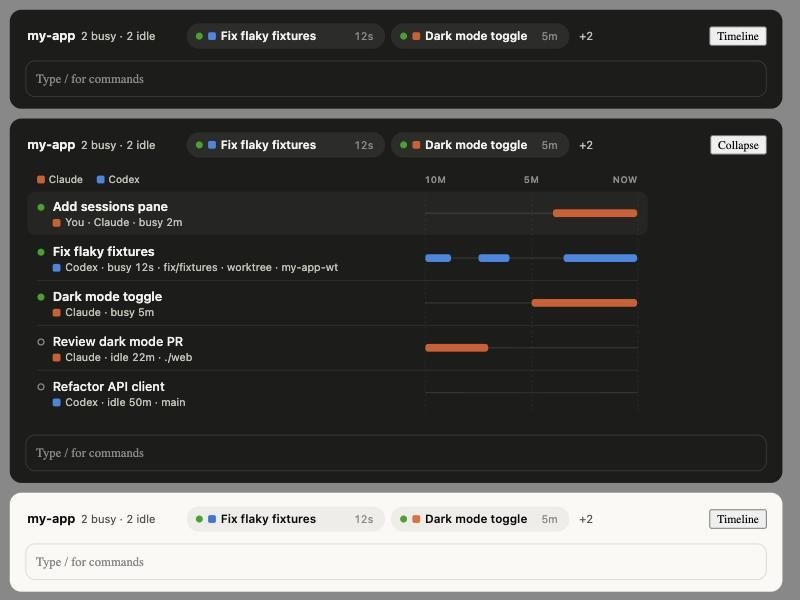
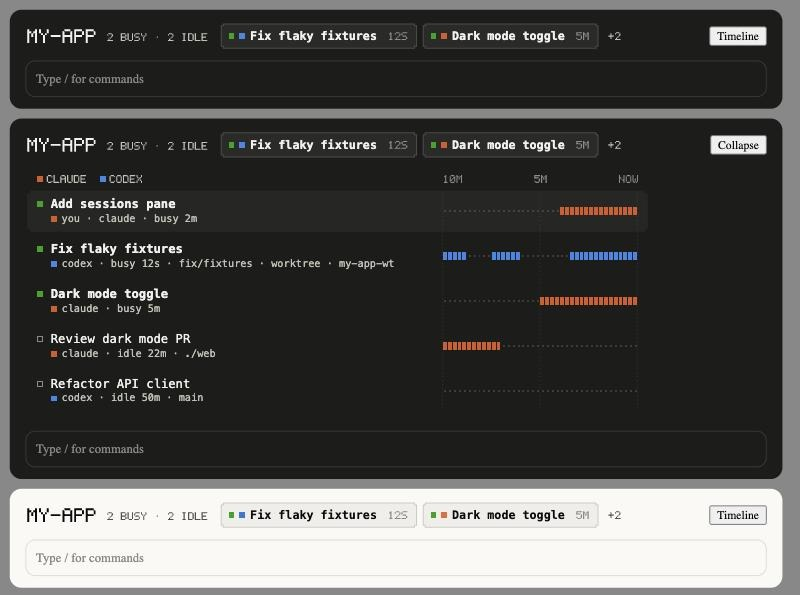
feat: pixel style and always-on collapsed strip
Labels use a 5x7 bitmap font, names a monospace face; status is a blinking
square, boxes have notched corners, and the timeline draws one block per
15 s with crisp edges. The strip now shows in every session, collapsed by
default, even with no other sessions in the repo.

Refs #1

diff --git a/hooks/draw.ts b/hooks/draw.ts
@@ -1,6 +1,8 @@
 import type { Peer, Snapshot } from '../types'
 
 // Pure drawing helpers: no `$`, so they can be rendered outside Claude Code.
+// Pixel style: labels in a 5x7 bitmap font, square marks, notched boxes,
+// one block per 15 s on the timeline, all drawn with crisp edges.
 
 export const HISTORY_BUCKETS = 40
 export const BUCKET_MS = 15_000
@@ -8,15 +10,6 @@ export const BUCKET_MS = 15_000
 const PAD = 12
 const ROW_H = 46
 const SUB_H = 26
-
-// Geometry for one drawing width: the shared time lane (last 10 minutes,
-// left to right) takes the right-hand part.
-type Geo = { W: number; LX: number; RX: number; CELL: number }
-const geo = (W: number): Geo => {
-  const RX = W - PAD
-  const LX = RX - Math.min(300, Math.round(W * 0.34))
-  return { W, LX, RX, CELL: (RX - LX) / HISTORY_BUCKETS }
-}
 
 // Agent identity: categorical slots 1 and 2, validated for both modes.
 const AGENT = {
@@ -27,28 +20,79 @@ const GOOD = '#0ca30c'
 
 const STYLE = `
   .t1 { fill: #0b0b0b; } .t2 { fill: #52514e; } .t3 { fill: #8a8880; }
-  .hair { stroke: #0b0b0b; stroke-opacity: .09; } .grid { stroke: #0b0b0b; stroke-opacity: .07; }
-  .track { stroke: #0b0b0b; stroke-opacity: .12; } .ring { stroke: #8a8880; }
-  .self { fill: #0b0b0b; fill-opacity: .035; } .chip { fill: #0b0b0b; fill-opacity: .05; }
+  .edge { stroke: #0b0b0b; stroke-opacity: .16; fill: none; } .grid { stroke: #0b0b0b; stroke-opacity: .12; }
+  .off { fill: #0b0b0b; fill-opacity: .13; } .ring { stroke: #8a8880; fill: none; }
+  .self, .chip { fill: #0b0b0b; } .self { fill-opacity: .04; } .chip { fill-opacity: .045; }
   .claude { fill: ${AGENT.claude.light}; } .codex { fill: ${AGENT.codex.light}; }
   @media (prefers-color-scheme: dark) {
     .t1 { fill: #f2f1ec; } .t2 { fill: #c3c2b7; } .t3 { fill: #8f8d85; }
-    .hair, .grid, .track { stroke: #ffffff; } .hair { stroke-opacity: .08; } .grid { stroke-opacity: .06; }
-    .track { stroke-opacity: .14; } .ring { stroke: #8f8d85; }
-    .self, .chip { fill: #ffffff; } .self { fill-opacity: .04; } .chip { fill-opacity: .07; }
+    .edge, .grid { stroke: #ffffff; } .edge { stroke-opacity: .16; } .grid { stroke-opacity: .1; }
+    .off { fill: #ffffff; fill-opacity: .14; } .ring { stroke: #8f8d85; }
+    .self, .chip { fill: #ffffff; } .self { fill-opacity: .045; } .chip { fill-opacity: .06; }
     .claude { fill: ${AGENT.claude.dark}; } .codex { fill: ${AGENT.codex.dark}; }
   }
-  text { font-family: -apple-system, BlinkMacSystemFont, "SF Pro Text", "Inter", system-ui, sans-serif; }
-  .caps { font-size: 9.5px; font-weight: 600; letter-spacing: .06em; }
-  .num { font-variant-numeric: tabular-nums; }
+  text { font-family: "SF Mono", ui-monospace, Menlo, Monaco, monospace; }
 `
+
+// 5x7 bitmap glyphs, one string of five bits per row.
+const GLYPHS: Record<string, string> = {
+  A: '01110100011000111111100011000110001', B: '11110100011000111110100011000111110',
+  C: '01110100011000010000100001000101110', D: '11110100011000110001100011000111110',
+  E: '11111100001000011110100001000011111', F: '11111100001000011110100001000010000',
+  G: '01110100011000010111100011000101111', H: '10001100011000111111100011000110001',
+  I: '01110001000010000100001000010001110', J: '00111000100001000010000101001001100',
+  K: '10001100101010011000101001001010001', L: '10000100001000010000100001000011111',
+  M: '10001110111010110101100011000110001', N: '10001100011100110101100111000110001',
+  O: '01110100011000110001100011000101110', P: '11110100011000111110100001000010000',
+  Q: '01110100011000110001101011001001101', R: '11110100011000111110101001001010001',
+  S: '01111100001000001110000010000111110', T: '11111001000010000100001000010000100',
+  U: '10001100011000110001100011000101110', V: '10001100011000110001100010101000100',
+  W: '10001100011000110101101011010101010', X: '10001100010101000100010101000110001',
+  Y: '10001100010101000100001000010000100', Z: '11111000010001000100010001000011111',
+  '0': '01110100011001110101110011000101110', '1': '00100011000010000100001000010001110',
+  '2': '01110100010000100010001000100011111', '3': '11111000100010000010000011000101110',
+  '4': '00010001100101010010111110001000010', '5': '11111100001111000001000011000101110',
+  '6': '00110010001000011110100011000101110', '7': '11111000010001000100010000100001000',
+  '8': '01110100011000101110100011000101110', '9': '01110100011000101111000010001001100',
+  '-': '00000000000000011111000000000000000', '/': '00001000010001000100010001000010000',
+  '.': '00000000000000000000000000110001100', ':': '00000011000110000000011000110000000',
+  '+': '00000001000010011111001000010000000', '_': '00000000000000000000000000000011111',
+  '·': '00000000000000000100000000000000000', '?': '01110100010000100010001000000000100',
+  ' ': '00000000000000000000000000000000000',
+}
+
+// Draws `text` in the bitmap font with its top-left at (x, y); `px` is the
+// size of one font pixel. Lit runs in each row become one path.
+export function pixelText(x: number, y: number, text: string, px: number, cls: string) {
+  const d: string[] = []
+  const chars = [...text.toUpperCase()]
+  chars.forEach((ch, i) => {
+    const bits = GLYPHS[ch] ?? GLYPHS['?']!
+    const gx = x + i * 6 * px
+    for (let row = 0; row < 7; row++) {
+      let col = 0
+      while (col < 5) {
+        if (bits[row * 5 + col] !== '1') {
+          col++
+          continue
+        }
+        const start = col
+        while (col < 5 && bits[row * 5 + col] === '1') col++
+        d.push(`M${+(gx + start * px).toFixed(2)} ${+(y + row * px).toFixed(2)}h${+((col - start) * px).toFixed(2)}v${px}h${-((col - start) * px).toFixed(2)}z`)
+      }
+    }
+  })
+  return { svg: `<path d="${d.join('')}" class="${cls}"/>`, width: chars.length * 6 * px - px }
+}
+
+export const pixelWidth = (text: string, px: number) => [...text].length * 6 * px - px
 
 export const esc = (s: string) =>
   s.replace(/&/g, '&amp;').replace(/</g, '&lt;').replace(/>/g, '&gt;').replace(/"/g, '&quot;')
 
-// Fits text to a pixel width, estimating glyph width from the font size.
+// Fits monospace text to a pixel width.
 export const fit = (s: string, px: number, size: number) => {
-  const max = Math.max(1, Math.floor(px / (size * 0.52)))
+  const max = Math.max(1, Math.floor(px / (size * 0.61)))
   return s.length <= max ? s : `${s.slice(0, max - 1)}…`
 }
 
@@ -64,67 +108,68 @@ export const relativeCwd = (cwd: string, root: string) =>
   cwd === root ? '' : cwd.startsWith(`${root}/`) ? `./${cwd.slice(root.length + 1)}` : cwd.split('/').pop() ?? cwd
 
 const svg = (width: number, height: number, body: string, isFixed: boolean) =>
-  `<svg xmlns="http://www.w3.org/2000/svg" viewBox="0 0 ${width} ${height}"${
+  `<svg xmlns="http://www.w3.org/2000/svg" viewBox="0 0 ${width} ${height}" shape-rendering="crispEdges"${
     isFixed ? ` width="${width}" height="${height}"` : ''
   }><style>${STYLE}</style>${body}</svg>`
 
-// Status: a pulsing filled dot for busy, a hollow ring for idle.
-const statusDot = (x: number, y: number, isBusy: boolean) =>
+// A box with its corners notched by one step, as in pixel art.
+const notched = (x: number, y: number, w: number, h: number, cls: string, n = 2) =>
+  `<path d="M${x + n} ${y}h${w - 2 * n}v${n}h${n}v${h - 2 * n}h${-n}v${n}h${-(w - 2 * n)}v${-n}h${-n}v${-(h - 2 * n)}h${n}z" class="${cls}"/>`
+
+// Status: a blinking filled square for busy, a hollow square for idle.
+const statusMark = (cx: number, cy: number, isBusy: boolean) =>
   isBusy
-    ? `<circle cx="${x}" cy="${y}" r="3.5" fill="${GOOD}" opacity=".4">
-         <animate attributeName="r" values="3.5;8;3.5" dur="1.8s" repeatCount="indefinite"/>
-         <animate attributeName="opacity" values=".4;0;.4" dur="1.8s" repeatCount="indefinite"/>
-       </circle>
-       <circle cx="${x}" cy="${y}" r="3.5" fill="${GOOD}"/>`
-    : `<circle cx="${x}" cy="${y}" r="3" fill="none" class="ring" stroke-width="1.3"/>`
+    ? `<rect x="${cx - 3}" y="${cy - 3}" width="6" height="6" fill="${GOOD}">
+         <animate attributeName="opacity" values="1;1;.25" keyTimes="0;.6;1" calcMode="discrete" dur="1.2s" repeatCount="indefinite"/>
+       </rect>`
+    : `<rect x="${cx - 2.5}" y="${cy - 2.5}" width="5" height="5" class="ring" stroke-width="1"/>`
 
 const agentMark = (x: number, y: number, agent: Peer['agent']) =>
-  `<rect x="${x}" y="${y}" width="8" height="8" rx="2" class="${agent}"/>`
+  `<rect x="${x}" y="${y}" width="6" height="6" class="${agent}"/>`
 
-// Consecutive busy buckets joined into rounded spans on a hairline track.
-const lane = (g: Geo, y: number, history: readonly number[], agent: Peer['agent']) => {
-  const { LX, RX, CELL } = g
-  const parts = [`<line x1="${LX}" x2="${RX}" y1="${y}" y2="${y}" class="track" stroke-width="1"/>`]
-  let start = -1
-  history.forEach((v, i) => {
-    if (v && start < 0) start = i
-    if ((!v || i === history.length - 1) && start >= 0) {
-      const end = v ? i + 1 : i
-      const x = LX + start * CELL
-      const w = Math.max(3, (end - start) * CELL - 1)
-      parts.push(`<rect x="${x.toFixed(1)}" y="${y - 4}" width="${w.toFixed(1)}" height="8" rx="3" class="${agent}"/>`)
-      start = -1
-    }
-  })
-  return parts.join('')
+// Geometry for one drawing width: the shared time lane (last 10 minutes,
+// left to right) takes the right-hand part, one cell per bucket.
+type Geo = { W: number; LX: number; RX: number; CELL: number }
+const geo = (W: number): Geo => {
+  const RX = W - PAD
+  const CELL = Math.max(3, Math.floor(Math.min(300, W * 0.34) / HISTORY_BUCKETS))
+  return { W, LX: RX - CELL * HISTORY_BUCKETS, RX, CELL }
 }
 
+const lane = (g: Geo, y: number, history: readonly number[], agent: Peer['agent']) =>
+  history
+    .map((v, i) => {
+      const x = g.LX + i * g.CELL
+      return v
+        ? `<rect x="${x}" y="${y - 4}" width="${g.CELL - 1}" height="8" class="${agent}"/>`
+        : `<rect x="${x + (g.CELL - 2) / 2}" y="${y - 1}" width="2" height="2" class="off"/>`
+    })
+    .join('')
+
 const sessionRow = (g: Geo, p: Peer, y: number, snap: Snapshot, selfBranch: string | null) => {
-  const { W, LX } = g
   const isBusy = p.status === 'busy'
-  const textX = PAD + 16
-  const textW = LX - 14 - textX
-  const name = p.name
+  const textX = PAD + 14
+  const textW = g.LX - 14 - textX
 
   const meta = [
-    p.isSelf ? 'You' : '',
-    AGENT[p.agent].label,
+    p.isSelf ? 'you' : '',
+    AGENT[p.agent].label.toLowerCase(),
     `${p.status} ${ago(snap.checkedAt - p.since)}`,
     p.branch && p.branch !== selfBranch ? p.branch : '',
     p.isWorktree ? 'worktree' : '',
     relativeCwd(p.cwd, snap.root),
-  ].filter(Boolean).join('  ·  ')
+  ].filter(Boolean).join(' · ')
 
   return `
-    ${p.isSelf ? `<rect x="2" y="${y + 1}" width="${W - 4}" height="${ROW_H - 2}" rx="8" class="self"/>` : ''}
-    ${statusDot(PAD + 4, y + 17, isBusy)}
-    <text x="${textX}" y="${y + 21}" font-size="13" font-weight="${isBusy ? 600 : 500}" class="t1">${esc(fit(name, textW, 13))}</text>
-    ${agentMark(textX, y + 29, p.agent)}
-    <text x="${textX + 13}" y="${y + 36.5}" font-size="11" class="t2 num">${esc(fit(meta, textW - 13, 11))}</text>
+    ${p.isSelf ? notched(2, y + 2, g.W - 4, ROW_H - 4, 'self', 3) : ''}
+    ${statusMark(PAD + 3, y + 16, isBusy)}
+    <text x="${textX}" y="${y + 20}" font-size="12.5" font-weight="${isBusy ? 700 : 500}" class="t1">${esc(fit(p.name, textW, 12.5))}</text>
+    ${agentMark(textX, y + 28, p.agent)}
+    <text x="${textX + 11}" y="${y + 34}" font-size="10.5" class="t2">${esc(fit(meta, textW - 11, 10.5))}</text>
     ${lane(g, y + ROW_H / 2, p.history, p.agent)}`
 }
 
-// The swimlane: one row per session on a shared 10-minute axis. `width` is
+// The timeline: one row per session on a shared 10-minute axis. `width` is
 // the drawing's width in CSS pixels; `isFixed` pins it rather than scaling.
 export function paneSvg(snap: Snapshot, width = 360, options: { withHeader?: boolean; isFixed?: boolean } = {}) {
   const { withHeader = true, isFixed = false } = options
@@ -132,58 +177,56 @@ export function paneSvg(snap: Snapshot, width = 360, options: { withHeader?: boo
   const { W, LX, RX } = g
   const busy = snap.peers.filter(p => p.status === 'busy').length
   const idle = snap.peers.length - busy
-  const repo = snap.root.split('/').pop() ?? snap.root
   const selfBranch = snap.peers.find(p => p.isSelf)?.branch ?? null
   const agents = (['claude', 'codex'] as const).filter(a => snap.peers.some(p => p.agent === a))
   const parts: string[] = []
 
-  // Header: repository, branch and counts.
-  if (withHeader) parts.push(`<text x="${PAD}" y="22" font-size="16" font-weight="650" class="t1">${esc(fit(repo, W - 2 * PAD, 16))}</text>`)
-  const sub = [selfBranch, `${busy} busy`, `${idle} idle`].filter(Boolean).join('  ·  ')
-  if (withHeader) parts.push(`<text x="${PAD}" y="40" font-size="11.5" class="t2 num">${esc(fit(sub, W - 2 * PAD, 11.5))}</text>`)
+  if (withHeader) {
+    const repo = snap.root.split('/').pop() ?? snap.root
+    parts.push(pixelText(PAD, 10, repo, 2, 't1').svg)
+    const sub = [selfBranch, `${busy} busy`, `${idle} idle`].filter(Boolean).join(' · ')
+    parts.push(`<text x="${PAD}" y="42" font-size="11" class="t2">${esc(fit(sub, W - 2 * PAD, 11))}</text>`)
+  }
 
   // Axis row: legend on the left, time ticks over the lane.
-  const axisY = withHeader ? 66 : 16
+  const axisY = withHeader ? 58 : 8
   let lx = PAD
   for (const a of agents) {
-    parts.push(agentMark(lx, axisY - 7.5, a))
-    parts.push(`<text x="${lx + 12}" y="${axisY}" font-size="10.5" class="t2">${AGENT[a].label}</text>`)
-    lx += 12 + AGENT[a].label.length * 6.2 + 12
+    parts.push(agentMark(lx, axisY + 1, a))
+    const label = pixelText(lx + 10, axisY, AGENT[a].label, 1.15, 't2')
+    parts.push(label.svg)
+    lx += 10 + label.width + 14
   }
-  const mid = (LX + RX) / 2
-  parts.push(`<text x="${LX}" y="${axisY}" class="t3 caps">10M</text>`)
-  parts.push(`<text x="${mid}" y="${axisY}" text-anchor="middle" class="t3 caps">5M</text>`)
-  parts.push(`<text x="${RX}" y="${axisY}" text-anchor="end" class="t3 caps">NOW</text>`)
+  const mid = LX + (RX - LX) / 2
+  parts.push(pixelText(LX, axisY, '10m', 1.15, 't3').svg)
+  parts.push(pixelText(mid - pixelWidth('5m', 1.15) / 2, axisY, '5m', 1.15, 't3').svg)
+  parts.push(pixelText(RX - pixelWidth('now', 1.15), axisY, 'now', 1.15, 't3').svg)
 
-  let y = axisY + 8
+  let y = axisY + 14
   const rowsTop = y
   const rows: string[] = []
-  snap.peers.forEach((p, i) => {
-    if (i > 0 && !p.isSelf && !snap.peers[i - 1]?.isSelf) {
-      rows.push(`<line x1="${PAD}" x2="${RX}" y1="${y}" y2="${y}" class="hair"/>`)
-    }
+  snap.peers.forEach(p => {
     rows.push(sessionRow(g, p, y, snap, selfBranch))
     y += ROW_H
   })
-  // Grid lines under the rows, spanning the lane.
-  for (const gx of [LX, mid, RX]) {
-    parts.push(`<line x1="${gx}" x2="${gx}" y1="${rowsTop + 4}" y2="${y - 4}" class="grid" stroke-dasharray="2 3"/>`)
+  for (const gx of [LX, Math.round(mid), RX]) {
+    parts.push(`<line x1="${gx - 0.5}" x2="${gx - 0.5}" y1="${rowsTop + 4}" y2="${y - 4}" class="grid" stroke-dasharray="1 3"/>`)
   }
   parts.push(...rows)
 
   if (snap.subagents.length > 0) {
-    y += 22
-    parts.push(`<text x="${PAD}" y="${y}" class="t3 caps">SUBAGENTS</text>`)
-    y += 6
+    y += 12
+    parts.push(pixelText(PAD, y, 'subagents', 1.15, 't3').svg)
+    y += 10
     for (const a of snap.subagents) {
-      parts.push(`${statusDot(PAD + 4, y + 13, true)}
-        <text x="${PAD + 16}" y="${y + 17}" font-size="12.5" class="t1">${esc(fit(a.label, 230, 12.5))}</text>
-        <text x="${RX}" y="${y + 17}" font-size="11" text-anchor="end" class="t2">${esc(fit(a.type, 80, 11))}</text>`)
+      parts.push(`${statusMark(PAD + 3, y + 12, true)}
+        <text x="${PAD + 14}" y="${y + 16}" font-size="12" class="t1">${esc(fit(a.label, W - 120, 12))}</text>
+        <text x="${RX}" y="${y + 16}" font-size="10.5" text-anchor="end" class="t2">${esc(fit(a.type, 80, 10.5))}</text>`)
       y += SUB_H
     }
   }
 
-  const h = y + 10
+  const h = y + 8
   return { width: W, height: h, source: svg(W, h, parts.join(''), isFixed) }
 }
 
@@ -192,38 +235,39 @@ export function paneSvg(snap: Snapshot, width = 360, options: { withHeader?: boo
 export function summarySvg(snap: Snapshot, maxWidth = 700) {
   const others = snap.peers.filter(p => !p.isSelf)
   const busy = others.filter(p => p.status === 'busy').length
-  const repo = fit(snap.root.split('/').pop() ?? snap.root, 160, 13)
-  const counts = `${busy} busy · ${others.length - busy} idle`
-  const parts: string[] = [
-    `<text x="2" y="19" font-size="13" font-weight="650" class="t1">${esc(repo)}</text>`,
-    `<text x="${2 + repo.length * 7.8 + 8}" y="19" font-size="11.5" class="t2 num">${counts}</text>`,
-  ]
-  let x = 2 + repo.length * 7.8 + 8 + counts.length * 6.3 + 14
+  const H = 30
+  const repo = pixelText(2, 8, (snap.root.split('/').pop() ?? snap.root).slice(0, 22), 2, 't1')
+  const counts = pixelText(2 + repo.width + 12, 12, `${busy} busy · ${others.length - busy} idle`, 1.15, 't2')
+  const parts: string[] = [repo.svg, counts.svg]
+  let x = 2 + repo.width + 12 + counts.width + 14
 
   const chips = others.map(p => {
     const isBusy = p.status === 'busy'
-    const name = fit(p.name, isBusy ? 170 : 120, 12)
+    const name = fit(p.name, isBusy ? 170 : 130, 12)
     const time = ago(snap.checkedAt - p.since)
-    return { p, isBusy, name, time, w: 35 + name.length * (isBusy ? 7.1 : 6.7) + 10 + time.length * 6.2 + 12 }
+    return { p, isBusy, name, time, w: 30 + name.length * 12 * 0.61 + 10 + pixelWidth(time, 1.15) + 10 }
   })
+  let shown = 0
   chips.forEach((c, i) => {
     const rest = chips.length - i - 1
-    if (x + c.w + (rest > 0 ? 44 : 0) > maxWidth) return
-    parts.push(`<rect x="${x}" y="2" width="${c.w}" height="26" rx="13" class="chip"/>
-      ${statusDot(x + 13, 15, c.isBusy)}
-      ${agentMark(x + 22, 11, c.p.agent)}
-      <text x="${x + 35}" y="19.5" font-size="12" font-weight="${c.isBusy ? 600 : 450}" class="${c.isBusy ? 't1' : 't2'}">${esc(c.name)}</text>
-      <text x="${x + c.w - 12}" y="19.5" font-size="11" text-anchor="end" class="t3 num">${c.time}</text>`)
-    x += c.w + 6
+    if (x + c.w + (rest > 0 ? 40 : 0) > maxWidth) return
+    const w = Math.round(c.w)
+    parts.push(`${notched(x, 2, w, 26, 'chip')}${notched(x + 0.5, 2.5, w - 1, 25, 'edge')}
+      ${statusMark(x + 11, 15, c.isBusy)}
+      ${agentMark(x + 19, 12, c.p.agent)}
+      <text x="${x + 30}" y="19" font-size="12" font-weight="${c.isBusy ? 700 : 500}" class="${c.isBusy ? 't1' : 't2'}">${esc(c.name)}</text>
+      ${pixelText(x + w - 10 - pixelWidth(c.time, 1.15), 11, c.time, 1.15, 't3').svg}`)
+    x += w + 6
+    shown++
   })
-  const shown = parts.filter(s => s.startsWith('<rect')).length
   if (shown < chips.length) {
-    parts.push(`<text x="${x + 4}" y="19.5" font-size="11.5" class="t2">+${chips.length - shown}</text>`)
-    x += 34
+    const more = pixelText(x + 4, 11, `+${chips.length - shown}`, 1.15, 't2')
+    parts.push(more.svg)
+    x += 4 + more.width + 6
   }
   const width = Math.ceil(x)
-  return { width, height: 30, source: svg(width, 30, parts.join(''), true) }
+  return { width, height: H, source: svg(width, H, parts.join(''), true) }
 }
 
 // Terminal version of the lane.
-export const stripText = (history: readonly number[]) => history.map(v => (v ? '━' : '─')).join('')
+export const stripText = (history: readonly number[]) => history.map(v => (v ? '█' : '·')).join('')

diff --git a/hooks/register.tsx b/hooks/register.tsx
@@ -227,7 +227,7 @@ export const register: Register = on => {
     const { value: snap } = await $.state.get(SNAPSHOT)
     const { value: isExpanded = false } = await $.state.get(EXPANDED)
     const others = (snap?.peers ?? []).filter(p => !p.isSelf)
-    if (!snap || others.length === 0 || e.props.hasSurvey) return next(e)
+    if (!snap || e.props.hasSurvey) return next(e)
 
     const toggle = () => $.state.set(EXPANDED, !isExpanded)
     const label = isExpanded ? 'Collapse' : 'Timeline'

diff --git a/README.md b/README.md
@@ -6,7 +6,7 @@ A Claude Code mod that shows which Claude Code sessions and Codex threads are wo
 
 ## What it shows
 
-- **Strip above the prompt** (default): the repository, how many other sessions are busy and idle, and a chip per session (busy first) with its agent color and how long it has been in that state. It appears whenever another session works in this repository.
+- **Strip above the prompt** (default): the repository, how many other sessions are busy and idle, and a chip per session (busy first) with its agent color and how long it has been in that state. It shows in every session, collapsed, and lists nothing when no other session works in this repository.
 - **Timeline** (the strip's button, or `/sessions-here`): expands the strip into a swimlane of every session on a shared 10-minute axis, busy periods drawn as bars in the agent's color.
 - **Side pane** (`/sessions-pane`, optional): the same timeline with a header, docked beside the conversation.
 - **Status line**: "N/M other sessions busy here".
